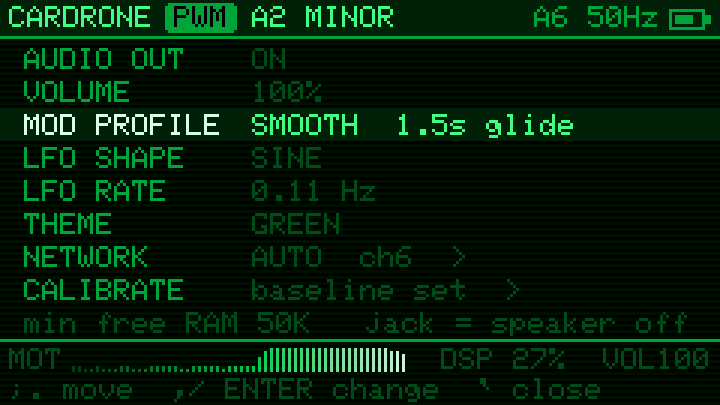
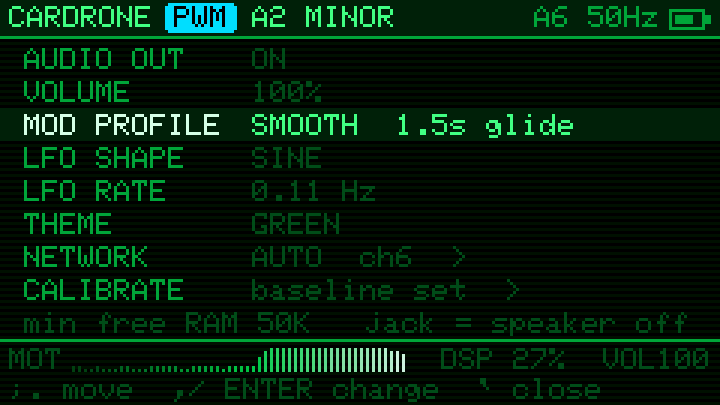
Per-engine header colours and a B&W theme
Each engine's header tag has its own colour in every theme, so the active
engine reads at a glance. The new B&W theme greys the UI but keeps warnings,
calibration ticks and engine tags in colour.

Changed region(s): [[0.2139, 0.0, 0.3361, 0.0889]]

diff --git a/src/main.cpp b/src/main.cpp
@@ -29,9 +29,14 @@ static uint16_t C_SCAN, C_BAR, C_DIM, C_MID, C_HI, C_HOT, C_WARN;  // set by app
 static uint16_t ramp[32];  // black -> phosphor -> white-hot
 struct Theme { const char* name; uint8_t r, g, b; uint16_t warn; };
 static const Theme THEMES[] = {{"GREEN", 0, 255, 90, rgb(255, 176, 0)}, {"YELLOW", 255, 200, 0, rgb(255, 70, 40)},
-                               {"RED", 255, 40, 30, rgb(255, 200, 0)}, {"BLUE", 40, 140, 255, rgb(255, 176, 0)}};
+                               {"RED", 255, 40, 30, rgb(255, 200, 0)}, {"BLUE", 40, 140, 255, rgb(255, 176, 0)},
+                               {"B&W", 255, 255, 255, rgb(255, 176, 0)}};  // grey UI; warnings, ticks, engine tags keep colour
 constexpr int NTHEME = sizeof THEMES / sizeof *THEMES;
 static uint8_t theme = 0;  // saved in NVS
+// Header tag per engine, the same in every theme (no amber: that means "warning").
+static const uint16_t ENGINE_COLOR[] = {rgb(0, 220, 255),  rgb(255, 120, 30), rgb(180, 110, 255), rgb(120, 255, 60),
+                                        rgb(255, 70, 170), rgb(255, 225, 40), rgb(60, 140, 255)};
+static_assert(sizeof ENGINE_COLOR / sizeof *ENGINE_COLOR == NENGINE, "one colour per engine");
 
 static void applyTheme() {
   const Theme& t = THEMES[theme];
@@ -247,7 +252,7 @@ static void drawHeader() {
   cv.drawString("CARDRONE", 3, 2);
   const char* en = ENGINE_NAME[P.engine];
   int ew = cv.textWidth(en) + 6;
-  cv.fillRoundRect(55, 1, ew, 10, 2, C_MID);
+  cv.fillRoundRect(55, 1, ew, 10, 2, ENGINE_COLOR[P.engine]);
   cv.setTextColor(C_BG);
   cv.drawString(en, 58, 2);
   char s[24];

diff --git a/manual.md b/manual.md
@@ -18,7 +18,7 @@ Plug in headphones and the speaker switches off by itself.
 
 **Header**, from left to right:
 
-- the engine name, then the root note, octave and scale, e.g. `A2 MINOR`
+- the engine name, in its own color, so you can tell at a glance which one is playing; then the root note, octave and scale, e.g. `A2 MINOR`
 - the network mode letter and channel: `A` auto, `J` join, `L` listen, so `A6` means AUTO on channel 6
 - how many WiFi measurements arrive per second, e.g. `48Hz` (amber when nothing is coming in)
 - the battery level (in the warning color below 20%)
@@ -163,7 +163,7 @@ Move with `;` `.`, change with `,` `/` or Enter, close with `` ` ``.
 | MOD PROFILE | how fast the room's changes reach the sound: **SHARP** (almost instant, for gestures), **NORMAL** (half a second), **SMOOTH** (1.5 s swells, the default) or **SLOW** (4 s tides). Pitch moves between scale notes at a matching pace. Remembered after power-off. |
 | LFO SHAPE | sine, triangle, saw down, square, S&H (random steps), drift (smooth random wandering) |
 | LFO RATE | from 0.02 Hz (one cycle per ~50 seconds) to about 5 Hz |
-| THEME | green, yellow, red or blue phosphor; remembered after power-off |
+| THEME | green, yellow, red or blue phosphor, or B&W (grey, with warnings, calibration ticks and engine tags still in color); remembered after power-off |
 | NETWORK | the network screen (see below) |
 | CALIBRATE | record the empty room, after a 5 s countdown to leave |
 

diff --git a/README.md b/README.md
@@ -56,7 +56,7 @@ Nothing sounds until `Enter` (play). On the ADV, plugging headphones into the ja
 | `c` | calibrate an empty-room baseline: 5 s countdown to leave the room, then ~3 s capture (any key cancels); LO/MID/HI then measure deviation from it |
 | `s` / `l` then `1`–`8` | save / load preset to `/cardrone/presetN.json` on SD |
 | `-` `=` | volume |
-| `` ` `` | options: audio out, volume, mod profile (sharp, normal, smooth, slow), LFO shape (sine, triangle, saw, square, S&H, drift) and rate, theme (green, yellow, red, blue), network, calibrate |
+| `` ` `` | options: audio out, volume, mod profile (sharp, normal, smooth, slow), LFO shape (sine, triangle, saw, square, S&H, drift) and rate, theme (green, yellow, red, blue, B&W), network, calibrate |
 | `h` | key help overlay |
 | `;` `.` | up / down (Params, Matrix) |
 | `,` `/` | adjust value (Params, Matrix) |
